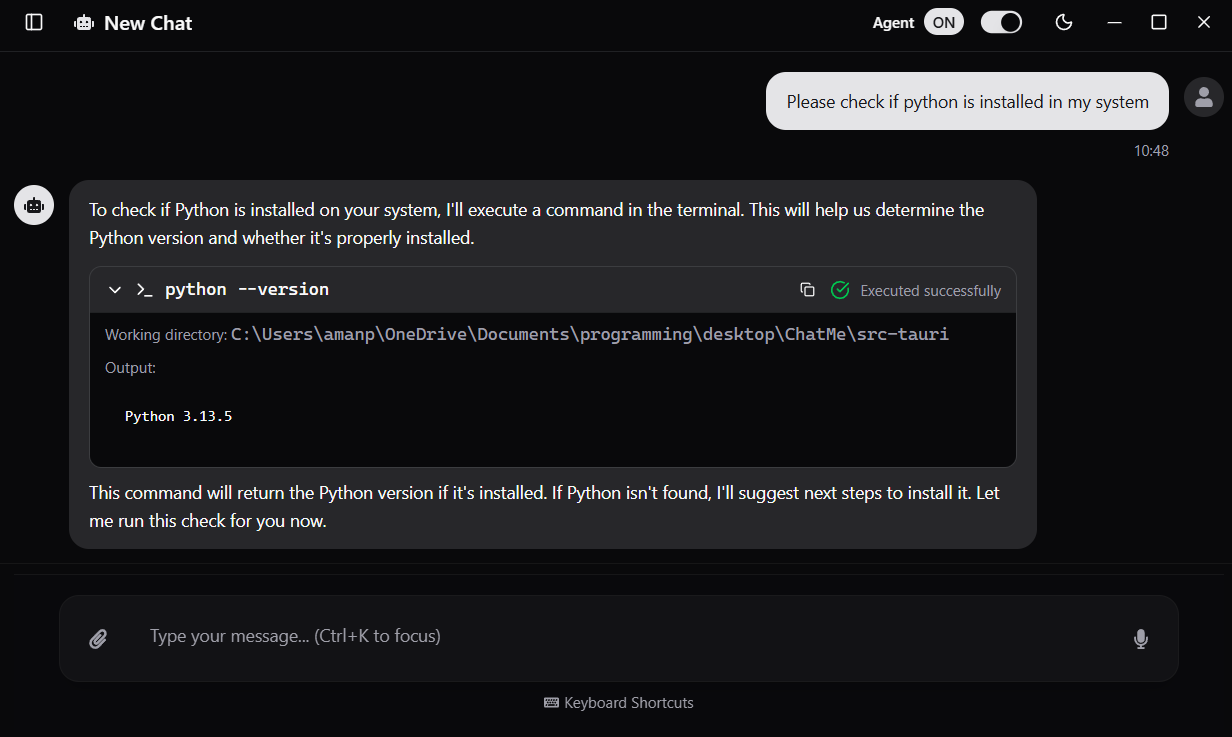
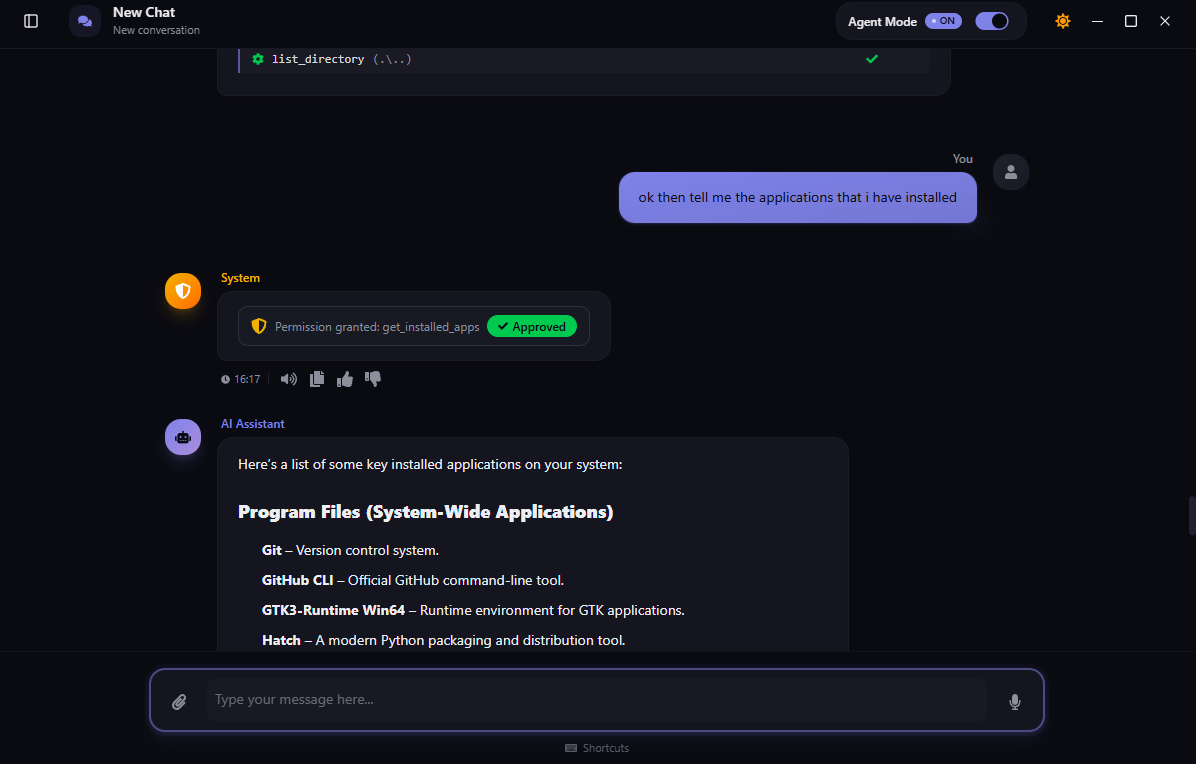
bump version to 0.5.3

diff --git a/README.md b/README.md
@@ -2,13 +2,14 @@
 
 ChatMe combines agent-driven AI, cross-platform responsiveness, and voice interaction into a single desktop/web app, empowering developers and users to interact with AI like never before. ChatMe supports multiple AI providers with a beautiful, responsive interface and advanced features including voice interaction and powerful agent mode with full system access.
 
-## 🆕 **What's New in v0.5.0**
+## 🆕 **What's New in v0.5.3**
 - **⚡ Hybrid Architecture**: Revolutionary change - Rust backend handles all HTTP requests, completely bypassing CORS
 - **🌐 13 Provider Support**: Added 5+ new providers (Kimi, OpenRouter, Together AI, Groq, Perplexity) - now supporting 13 total!
 - **📡 Native Streaming**: Provider-specific implementations for OpenAI, Anthropic, and Google with optimal performance
 - **🎨 Enhanced UX**: Improved delete button flow, welcome screen auto-send, and smoother interactions
 - **🔧 Bug Fixes**: Fixed tool parameter mismatch and various UX improvements
 - **🚀 Better Reliability**: Improved error handling, streaming compatibility, and overall stability
+- **🌐 MCP support**: Added MCP support for seamless integration with other tools
 
 ### **Previous Release - v0.4.0**
 - **🚀 Enhanced Agent Mode**: Execute terminal commands, launch apps, and manage processes
